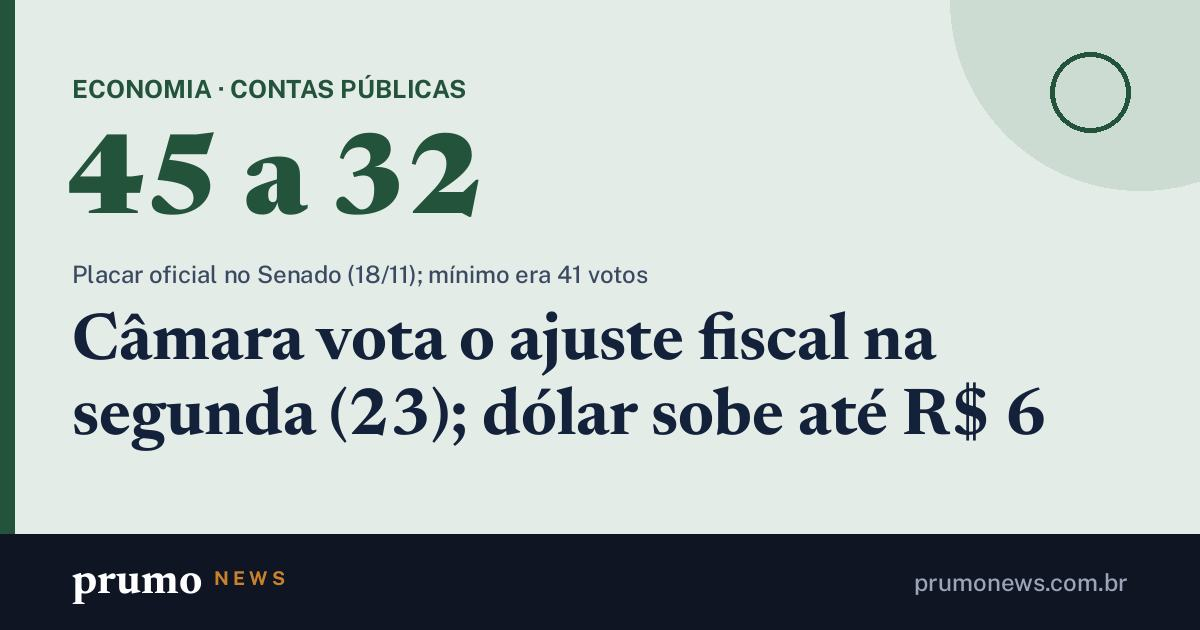
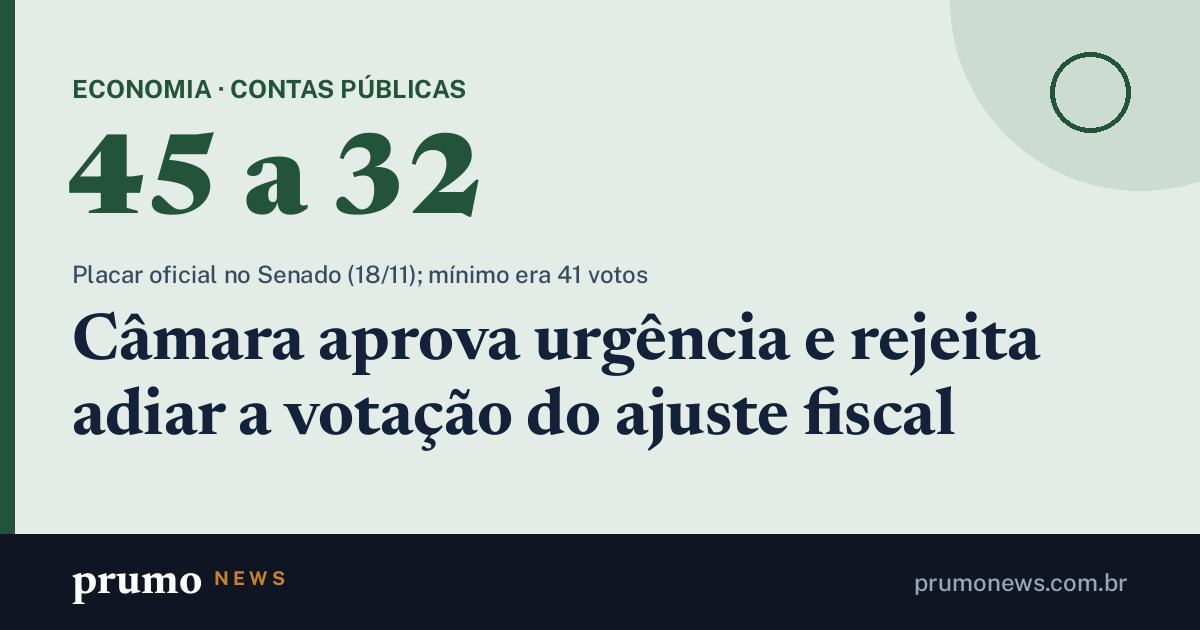
Páginas de compartilhamento 23/11 21h51

Changed region(s): [[0.0617, 0.4825, 0.8942, 0.7238]]

diff --git a/m/ajuste-fiscal-lula-4.html b/m/ajuste-fiscal-lula-4.html
@@ -3,20 +3,22 @@
 <head>
 <meta charset="utf-8">
 <meta name="viewport" content="width=device-width, initial-scale=1">
-<title>PL vota contra o ajuste fiscal; Câmara decide na segunda (23) · Prumo News</title>
-<meta name="description" content="O governo precisa de 257 votos; o PL anunciou voto contra, o relator mantém o texto do Senado e o dólar fechou a R$ 5,93.">
-<link rel="canonical" href="https://prumonews.com.br/m/pl-vota-contra-o-ajuste-fiscal-camara-decide-na-segunda-23.html">
+<title>Câmara aprova urgência e rejeita adiar a votação do ajuste fiscal · Prumo News</title>
+<meta name="description" content="O relator promete proteger benefícios sociais; o governo precisa de 257 votos e o PL anunciou voto contra.">
+<link rel="canonical" href="https://prumonews.com.br/m/camara-aprova-urgencia-e-rejeita-adiar-a-votacao-do-ajuste-fiscal.html">
 <meta property="og:type" content="article">
 <meta property="og:site_name" content="Prumo News">
 <meta property="og:locale" content="pt_BR">
-<meta property="og:title" content="PL vota contra o ajuste fiscal; Câmara decide na segunda (23)">
-<meta property="og:description" content="O governo precisa de 257 votos; o PL anunciou voto contra, o relator mantém o texto do Senado e o dólar fechou a R$ 5,93.">
-<meta property="og:url" content="https://prumonews.com.br/m/pl-vota-contra-o-ajuste-fiscal-camara-decide-na-segunda-23.html">
-<meta property="og:image" content="https://upload.wikimedia.org/wikipedia/commons/thumb/3/3a/Plen%C3%A1rio_do_Senado_%2829281060086%29.jpg/960px-Plen%C3%A1rio_do_Senado_%2829281060086%29.jpg">
+<meta property="og:title" content="Câmara aprova urgência e rejeita adiar a votação do ajuste fiscal">
+<meta property="og:description" content="O relator promete proteger benefícios sociais; o governo precisa de 257 votos e o PL anunciou voto contra.">
+<meta property="og:url" content="https://prumonews.com.br/m/camara-aprova-urgencia-e-rejeita-adiar-a-votacao-do-ajuste-fiscal.html">
+<meta property="og:image" content="https://prumonews.com.br/m/og/ajuste-fiscal-lula-4.jpg?v=a1370fdf12">
+<meta property="og:image:width" content="1200">
+<meta property="og:image:height" content="630">
 <meta name="twitter:card" content="summary_large_image">
 <meta name="theme-color" content="#0f1522">
 <script>location.replace("/#m=ajuste-fiscal-lula-4")</script>
 <style>body{margin:0;font:16px/1.5 system-ui,sans-serif;background:#0f1522;color:#e8ecf2;display:grid;place-items:center;min-height:100vh;padding:24px;box-sizing:border-box;text-align:center}a{color:#e6b673}</style>
 </head>
-<body><p><a href="/#m=ajuste-fiscal-lula-4">PL vota contra o ajuste fiscal; Câmara decide na segunda (23)</a><br>Abrindo no Prumo News…</p></body>
+<body><p><a href="/#m=ajuste-fiscal-lula-4">Câmara aprova urgência e rejeita adiar a votação do ajuste fiscal</a><br>Abrindo no Prumo News…</p></body>
 </html>

diff --git a/m/petrobras-plano-2027-2031.html b/m/petrobras-plano-2027-2031.html
@@ -3,20 +3,20 @@
 <head>
 <meta charset="utf-8">
 <meta name="viewport" content="width=device-width, initial-scale=1">
-<title>Petrobras divulga o plano de negócios 2027-2031 na segunda (23) · Prumo News</title>
-<meta name="description" content="O conselho avalia investir US$ 115 bi a US$ 120 bi, contra US$ 109 bi no plano de 2026 a 2030.">
-<link rel="canonical" href="https://prumonews.com.br/m/petrobras-divulga-o-plano-de-negocios-2027-2031-na-segunda-23.html">
+<title>Petrobras aprova plano de US$ 122 bi e dividendos de R$ 15,6 bi · Prumo News</title>
+<meta name="description" content="O investimento sobe 12% sobre o plano anterior; os dividendos extraordinários saem em 23/12.">
+<link rel="canonical" href="https://prumonews.com.br/m/petrobras-aprova-plano-de-us-122-bi-e-dividendos-de-r-15-6-bi.html">
 <meta property="og:type" content="article">
 <meta property="og:site_name" content="Prumo News">
 <meta property="og:locale" content="pt_BR">
-<meta property="og:title" content="Petrobras divulga o plano de negócios 2027-2031 na segunda (23)">
-<meta property="og:description" content="O conselho avalia investir US$ 115 bi a US$ 120 bi, contra US$ 109 bi no plano de 2026 a 2030.">
-<meta property="og:url" content="https://prumonews.com.br/m/petrobras-divulga-o-plano-de-negocios-2027-2031-na-segunda-23.html">
+<meta property="og:title" content="Petrobras aprova plano de US$ 122 bi e dividendos de R$ 15,6 bi">
+<meta property="og:description" content="O investimento sobe 12% sobre o plano anterior; os dividendos extraordinários saem em 23/12.">
+<meta property="og:url" content="https://prumonews.com.br/m/petrobras-aprova-plano-de-us-122-bi-e-dividendos-de-r-15-6-bi.html">
 <meta property="og:image" content="https://upload.wikimedia.org/wikipedia/commons/thumb/6/60/Sede_Petrobras_en_R%C3%ADo_de_Janeiro.jpg/960px-Sede_Petrobras_en_R%C3%ADo_de_Janeiro.jpg">
 <meta name="twitter:card" content="summary_large_image">
 <meta name="theme-color" content="#0f1522">
 <script>location.replace("/#m=petrobras-plano-2027-2031")</script>
 <style>body{margin:0;font:16px/1.5 system-ui,sans-serif;background:#0f1522;color:#e8ecf2;display:grid;place-items:center;min-height:100vh;padding:24px;box-sizing:border-box;text-align:center}a{color:#e6b673}</style>
 </head>
-<body><p><a href="/#m=petrobras-plano-2027-2031">Petrobras divulga o plano de negócios 2027-2031 na segunda (23)</a><br>Abrindo no Prumo News…</p></body>
+<body><p><a href="/#m=petrobras-plano-2027-2031">Petrobras aprova plano de US$ 122 bi e dividendos de R$ 15,6 bi</a><br>Abrindo no Prumo News…</p></body>
 </html>

diff --git a/m/moraes-se-declara-suspeito-em-acao-sobre-suposta-interferencia.html b/m/moraes-se-declara-suspeito-em-acao-sobre-suposta-interferencia.html
@@ -1,0 +1,22 @@
+<!doctype html>
+<html lang="pt-BR">
+<head>
+<meta charset="utf-8">
+<meta name="viewport" content="width=device-width, initial-scale=1">
+<title>Moraes se declara suspeito em ação sobre suposta interferência estrangeira · Prumo News</title>
+<meta name="description" content="O ministro do STF deixa de atuar no caso sobre suposta interferência estrangeira nas eleições.">
+<link rel="canonical" href="https://prumonews.com.br/m/moraes-se-declara-suspeito-em-acao-sobre-suposta-interferencia.html">
+<meta property="og:type" content="article">
+<meta property="og:site_name" content="Prumo News">
+<meta property="og:locale" content="pt_BR">
+<meta property="og:title" content="Moraes se declara suspeito em ação sobre suposta interferência estrangeira">
+<meta property="og:description" content="O ministro do STF deixa de atuar no caso sobre suposta interferência estrangeira nas eleições.">
+<meta property="og:url" content="https://prumonews.com.br/m/moraes-se-declara-suspeito-em-acao-sobre-suposta-interferencia.html">
+<meta property="og:image" content="https://upload.wikimedia.org/wikipedia/commons/thumb/4/49/Alexandre_de_Moraes%2C_2017_%28cropped%29.jpg/960px-Alexandre_de_Moraes%2C_2017_%28cropped%29.jpg">
+<meta name="twitter:card" content="summary_large_image">
+<meta name="theme-color" content="#0f1522">
+<script>location.replace("/#m=moraes-suspeito-interferencia-estrangeira")</script>
+<style>body{margin:0;font:16px/1.5 system-ui,sans-serif;background:#0f1522;color:#e8ecf2;display:grid;place-items:center;min-height:100vh;padding:24px;box-sizing:border-box;text-align:center}a{color:#e6b673}</style>
+</head>
+<body><p><a href="/#m=moraes-suspeito-interferencia-estrangeira">Moraes se declara suspeito em ação sobre suposta interferência estrangeira</a><br>Abrindo no Prumo News…</p></body>
+</html>

diff --git a/m/moraes-suspeito-interferencia-estrangeira.html b/m/moraes-suspeito-interferencia-estrangeira.html
@@ -1,0 +1,22 @@
+<!doctype html>
+<html lang="pt-BR">
+<head>
+<meta charset="utf-8">
+<meta name="viewport" content="width=device-width, initial-scale=1">
+<title>Moraes se declara suspeito em ação sobre suposta interferência estrangeira · Prumo News</title>
+<meta name="description" content="O ministro do STF deixa de atuar no caso sobre suposta interferência estrangeira nas eleições.">
+<link rel="canonical" href="https://prumonews.com.br/m/moraes-se-declara-suspeito-em-acao-sobre-suposta-interferencia.html">
+<meta property="og:type" content="article">
+<meta property="og:site_name" content="Prumo News">
+<meta property="og:locale" content="pt_BR">
+<meta property="og:title" content="Moraes se declara suspeito em ação sobre suposta interferência estrangeira">
+<meta property="og:description" content="O ministro do STF deixa de atuar no caso sobre suposta interferência estrangeira nas eleições.">
+<meta property="og:url" content="https://prumonews.com.br/m/moraes-se-declara-suspeito-em-acao-sobre-suposta-interferencia.html">
+<meta property="og:image" content="https://upload.wikimedia.org/wikipedia/commons/thumb/4/49/Alexandre_de_Moraes%2C_2017_%28cropped%29.jpg/960px-Alexandre_de_Moraes%2C_2017_%28cropped%29.jpg">
+<meta name="twitter:card" content="summary_large_image">
+<meta name="theme-color" content="#0f1522">
+<script>location.replace("/#m=moraes-suspeito-interferencia-estrangeira")</script>
+<style>body{margin:0;font:16px/1.5 system-ui,sans-serif;background:#0f1522;color:#e8ecf2;display:grid;place-items:center;min-height:100vh;padding:24px;box-sizing:border-box;text-align:center}a{color:#e6b673}</style>
+</head>
+<body><p><a href="/#m=moraes-suspeito-interferencia-estrangeira">Moraes se declara suspeito em ação sobre suposta interferência estrangeira</a><br>Abrindo no Prumo News…</p></body>
+</html>

diff --git a/m/camara-aprova-urgencia-e-rejeita-adiar-a-votacao-do-ajuste-fiscal.html b/m/camara-aprova-urgencia-e-rejeita-adiar-a-votacao-do-ajuste-fiscal.html
@@ -1,0 +1,24 @@
+<!doctype html>
+<html lang="pt-BR">
+<head>
+<meta charset="utf-8">
+<meta name="viewport" content="width=device-width, initial-scale=1">
+<title>Câmara aprova urgência e rejeita adiar a votação do ajuste fiscal · Prumo News</title>
+<meta name="description" content="O relator promete proteger benefícios sociais; o governo precisa de 257 votos e o PL anunciou voto contra.">
+<link rel="canonical" href="https://prumonews.com.br/m/camara-aprova-urgencia-e-rejeita-adiar-a-votacao-do-ajuste-fiscal.html">
+<meta property="og:type" content="article">
+<meta property="og:site_name" content="Prumo News">
+<meta property="og:locale" content="pt_BR">
+<meta property="og:title" content="Câmara aprova urgência e rejeita adiar a votação do ajuste fiscal">
+<meta property="og:description" content="O relator promete proteger benefícios sociais; o governo precisa de 257 votos e o PL anunciou voto contra.">
+<meta property="og:url" content="https://prumonews.com.br/m/camara-aprova-urgencia-e-rejeita-adiar-a-votacao-do-ajuste-fiscal.html">
+<meta property="og:image" content="https://prumonews.com.br/m/og/ajuste-fiscal-lula-4.jpg?v=a1370fdf12">
+<meta property="og:image:width" content="1200">
+<meta property="og:image:height" content="630">
+<meta name="twitter:card" content="summary_large_image">
+<meta name="theme-color" content="#0f1522">
+<script>location.replace("/#m=ajuste-fiscal-lula-4")</script>
+<style>body{margin:0;font:16px/1.5 system-ui,sans-serif;background:#0f1522;color:#e8ecf2;display:grid;place-items:center;min-height:100vh;padding:24px;box-sizing:border-box;text-align:center}a{color:#e6b673}</style>
+</head>
+<body><p><a href="/#m=ajuste-fiscal-lula-4">Câmara aprova urgência e rejeita adiar a votação do ajuste fiscal</a><br>Abrindo no Prumo News…</p></body>
+</html>

diff --git a/m/petrobras-compra-42-da-produtora-de-etanol-de-milho-neomille-por-r-2-8.html b/m/petrobras-compra-42-da-produtora-de-etanol-de-milho-neomille-por-r-2-8.html
@@ -1,0 +1,22 @@
+<!doctype html>
+<html lang="pt-BR">
+<head>
+<meta charset="utf-8">
+<meta name="viewport" content="width=device-width, initial-scale=1">
+<title>Petrobras compra 42% da produtora de etanol de milho Neomille por R$ 2,8 bi · Prumo News</title>
+<meta name="description" content="A estatal volta ao setor de etanol com a compra de participação na empresa do Grupo Cerradinho.">
+<link rel="canonical" href="https://prumonews.com.br/m/petrobras-compra-42-da-produtora-de-etanol-de-milho-neomille-por-r-2-8.html">
+<meta property="og:type" content="article">
+<meta property="og:site_name" content="Prumo News">
+<meta property="og:locale" content="pt_BR">
+<meta property="og:title" content="Petrobras compra 42% da produtora de etanol de milho Neomille por R$ 2,8 bi">
+<meta property="og:description" content="A estatal volta ao setor de etanol com a compra de participação na empresa do Grupo Cerradinho.">
+<meta property="og:url" content="https://prumonews.com.br/m/petrobras-compra-42-da-produtora-de-etanol-de-milho-neomille-por-r-2-8.html">
+<meta property="og:image" content="https://upload.wikimedia.org/wikipedia/commons/thumb/e/ee/SedePetrobras.JPG/960px-SedePetrobras.JPG">
+<meta name="twitter:card" content="summary_large_image">
+<meta name="theme-color" content="#0f1522">
+<script>location.replace("/#m=petrobras-compra-neomille-etanol")</script>
+<style>body{margin:0;font:16px/1.5 system-ui,sans-serif;background:#0f1522;color:#e8ecf2;display:grid;place-items:center;min-height:100vh;padding:24px;box-sizing:border-box;text-align:center}a{color:#e6b673}</style>
+</head>
+<body><p><a href="/#m=petrobras-compra-neomille-etanol">Petrobras compra 42% da produtora de etanol de milho Neomille por R$ 2,8 bi</a><br>Abrindo no Prumo News…</p></body>
+</html>

diff --git a/m/petrobras-compra-neomille-etanol.html b/m/petrobras-compra-neomille-etanol.html
@@ -1,0 +1,22 @@
+<!doctype html>
+<html lang="pt-BR">
+<head>
+<meta charset="utf-8">
+<meta name="viewport" content="width=device-width, initial-scale=1">
+<title>Petrobras compra 42% da produtora de etanol de milho Neomille por R$ 2,8 bi · Prumo News</title>
+<meta name="description" content="A estatal volta ao setor de etanol com a compra de participação na empresa do Grupo Cerradinho.">
+<link rel="canonical" href="https://prumonews.com.br/m/petrobras-compra-42-da-produtora-de-etanol-de-milho-neomille-por-r-2-8.html">
+<meta property="og:type" content="article">
+<meta property="og:site_name" content="Prumo News">
+<meta property="og:locale" content="pt_BR">
+<meta property="og:title" content="Petrobras compra 42% da produtora de etanol de milho Neomille por R$ 2,8 bi">
+<meta property="og:description" content="A estatal volta ao setor de etanol com a compra de participação na empresa do Grupo Cerradinho.">
+<meta property="og:url" content="https://prumonews.com.br/m/petrobras-compra-42-da-produtora-de-etanol-de-milho-neomille-por-r-2-8.html">
+<meta property="og:image" content="https://upload.wikimedia.org/wikipedia/commons/thumb/e/ee/SedePetrobras.JPG/960px-SedePetrobras.JPG">
+<meta name="twitter:card" content="summary_large_image">
+<meta name="theme-color" content="#0f1522">
+<script>location.replace("/#m=petrobras-compra-neomille-etanol")</script>
+<style>body{margin:0;font:16px/1.5 system-ui,sans-serif;background:#0f1522;color:#e8ecf2;display:grid;place-items:center;min-height:100vh;padding:24px;box-sizing:border-box;text-align:center}a{color:#e6b673}</style>
+</head>
+<body><p><a href="/#m=petrobras-compra-neomille-etanol">Petrobras compra 42% da produtora de etanol de milho Neomille por R$ 2,8 bi</a><br>Abrindo no Prumo News…</p></body>
+</html>

diff --git a/m/petrobras-aprova-plano-de-us-122-bi-e-dividendos-de-r-15-6-bi.html b/m/petrobras-aprova-plano-de-us-122-bi-e-dividendos-de-r-15-6-bi.html
@@ -1,0 +1,22 @@
+<!doctype html>
+<html lang="pt-BR">
+<head>
+<meta charset="utf-8">
+<meta name="viewport" content="width=device-width, initial-scale=1">
+<title>Petrobras aprova plano de US$ 122 bi e dividendos de R$ 15,6 bi · Prumo News</title>
+<meta name="description" content="O investimento sobe 12% sobre o plano anterior; os dividendos extraordinários saem em 23/12.">
+<link rel="canonical" href="https://prumonews.com.br/m/petrobras-aprova-plano-de-us-122-bi-e-dividendos-de-r-15-6-bi.html">
+<meta property="og:type" content="article">
+<meta property="og:site_name" content="Prumo News">
+<meta property="og:locale" content="pt_BR">
+<meta property="og:title" content="Petrobras aprova plano de US$ 122 bi e dividendos de R$ 15,6 bi">
+<meta property="og:description" content="O investimento sobe 12% sobre o plano anterior; os dividendos extraordinários saem em 23/12.">
+<meta property="og:url" content="https://prumonews.com.br/m/petrobras-aprova-plano-de-us-122-bi-e-dividendos-de-r-15-6-bi.html">
+<meta property="og:image" content="https://upload.wikimedia.org/wikipedia/commons/thumb/6/60/Sede_Petrobras_en_R%C3%ADo_de_Janeiro.jpg/960px-Sede_Petrobras_en_R%C3%ADo_de_Janeiro.jpg">
+<meta name="twitter:card" content="summary_large_image">
+<meta name="theme-color" content="#0f1522">
+<script>location.replace("/#m=petrobras-plano-2027-2031")</script>
+<style>body{margin:0;font:16px/1.5 system-ui,sans-serif;background:#0f1522;color:#e8ecf2;display:grid;place-items:center;min-height:100vh;padding:24px;box-sizing:border-box;text-align:center}a{color:#e6b673}</style>
+</head>
+<body><p><a href="/#m=petrobras-plano-2027-2031">Petrobras aprova plano de US$ 122 bi e dividendos de R$ 15,6 bi</a><br>Abrindo no Prumo News…</p></body>
+</html>
